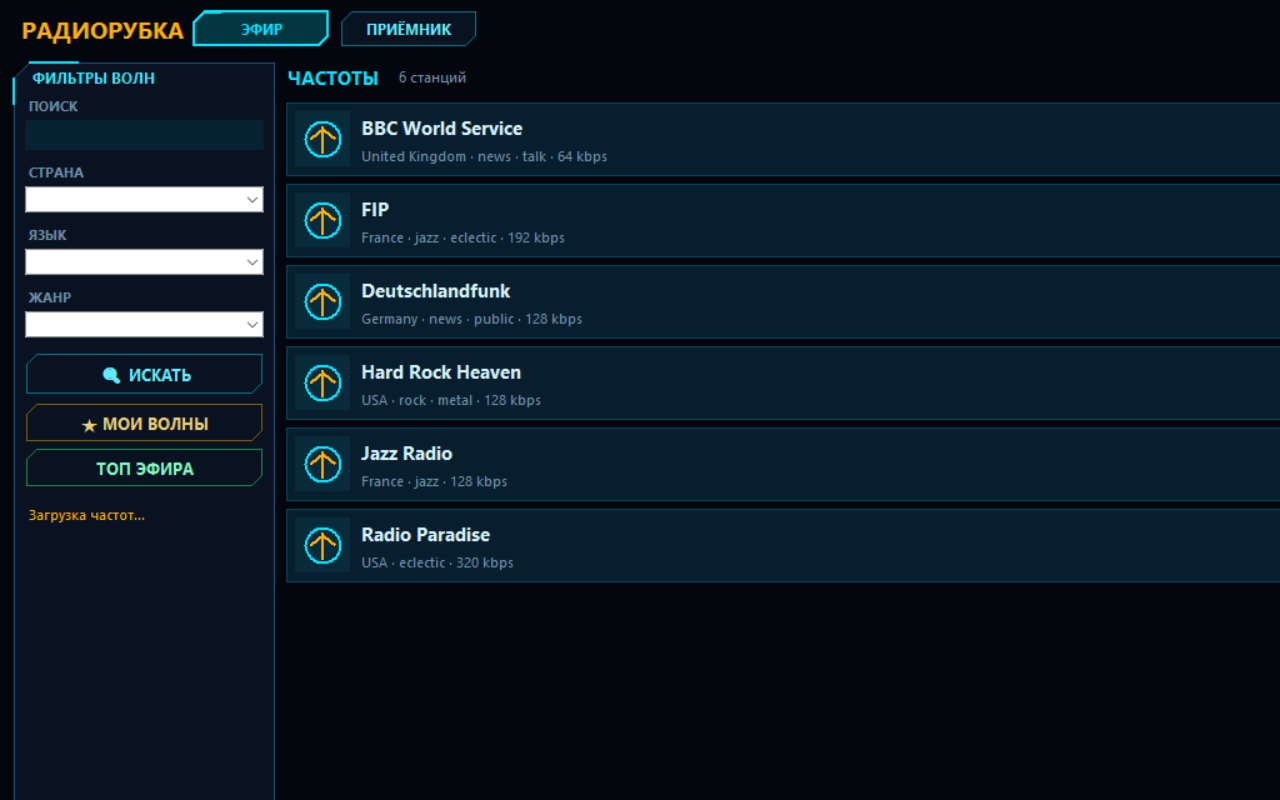
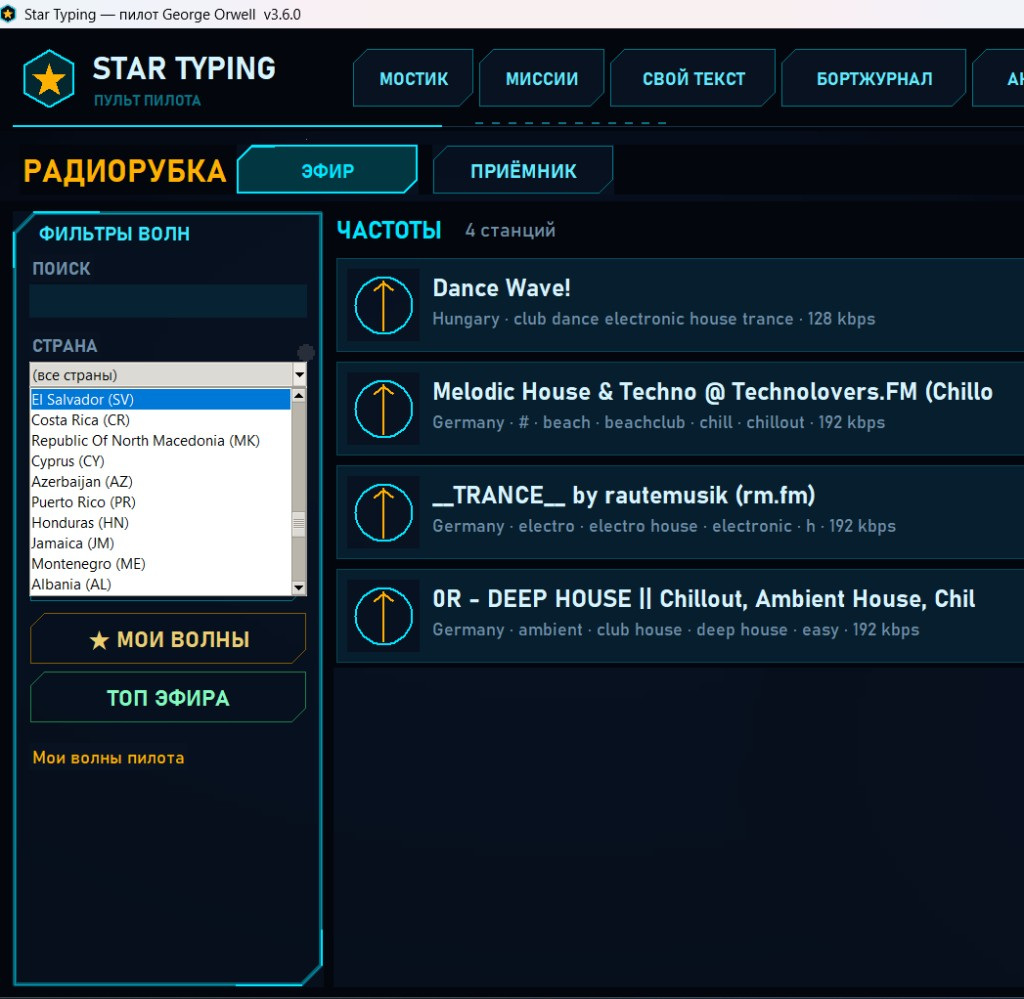
Документация и скрины читалки/радиорубки; поиск mpv вне PATH на Windows.
README и отчёт со скринами разворота и эфира; winget shinchiro.mpv и resolve_mpv для установки вне PATH.

diff --git a/stamina/radio/player.py b/stamina/radio/player.py
@@ -16,11 +16,64 @@ from pathlib import Path
 from typing import Callable
 
 
+def _known_mpv_paths() -> list[Path]:
+    """Типичные места установки mpv на Windows (winget shinchiro.mpv и т.п.)."""
+    out: list[Path] = []
+    env = os.environ.get("MPV_PATH") or os.environ.get("STAMINA_MPV")
+    if env:
+        out.append(Path(env))
+    if sys.platform == "win32":
+        pf = os.environ.get("ProgramFiles", r"C:\Program Files")
+        pf86 = os.environ.get("ProgramFiles(x86)", r"C:\Program Files (x86)")
+        local = os.environ.get("LOCALAPPDATA", "")
+        home = Path.home()
+        candidates = [
+            Path(pf) / "MPV Player" / "mpv.exe",
+            Path(pf) / "mpv" / "mpv.exe",
+            Path(pf86) / "MPV Player" / "mpv.exe",
+            Path(pf86) / "mpv" / "mpv.exe",
+            Path(local) / "Programs" / "mpv" / "mpv.exe" if local else None,
+            home / "scoop" / "apps" / "mpv" / "current" / "mpv.exe",
+            Path(r"C:\mpv\mpv.exe"),
+        ]
+        out.extend(p for p in candidates if p is not None)
+    return out
+
+
+def resolve_mpv() -> str | None:
+    """Путь к mpv: PATH или известные каталоги установки."""
+    which = shutil.which("mpv")
+    if which:
+        return which
+    for p in _known_mpv_paths():
+        try:
+            if p.is_file():
+                return str(p)
+        except OSError:
+            continue
+    return None
+
+
+def resolve_ffplay() -> str | None:
+    return shutil.which("ffplay")
+
+
 def backend_name() -> str | None:
-    if shutil.which("mpv"):
+    if resolve_mpv():
         return "mpv"
-    if shutil.which("ffplay"):
+    if resolve_ffplay():
         return "ffplay"
+    return None
+
+
+def backend_cmd() -> list[str] | None:
+    """Команда запуска: ['mpv', ...] или полный путь."""
+    mpv = resolve_mpv()
+    if mpv:
+        return [mpv]
+    ff = resolve_ffplay()
+    if ff:
+        return [ff]
     return None
 
 
@@ -163,10 +216,13 @@ class StreamPlayer:
                     pass
         except OSError:
             pass
+        mpv = resolve_mpv()
+        if not mpv:
+            return False
         ipc = str(sock) if sys.platform != "win32" else r"\\.\pipe\stamina-radio-" + str(os.getpid())
         flags = getattr(subprocess, "CREATE_NO_WINDOW", 0) if sys.platform == "win32" else 0
         cmd = [
-            "mpv", "--no-video", "--quiet", "--no-terminal",
+            mpv, "--no-video", "--quiet", "--no-terminal",
             f"--volume={self._volume}",
             f"--input-ipc-server={ipc}",
             "--idle=yes",
@@ -250,10 +306,13 @@ class StreamPlayer:
 
     # ------------------------------------------------------------------ ffplay
     def _play_ffplay(self, url: str) -> bool:
+        ff = resolve_ffplay()
+        if not ff:
+            return False
         flags = getattr(subprocess, "CREATE_NO_WINDOW", 0) if sys.platform == "win32" else 0
         # volume у ffplay: -volume 0..100
         cmd = [
-            "ffplay", "-nodisp", "-autoexit", "-loglevel", "quiet",
+            ff, "-nodisp", "-autoexit", "-loglevel", "quiet",
             "-volume", str(self._volume), url,
         ]
         try:

diff --git a/stamina/deps.py b/stamina/deps.py
@@ -111,7 +111,7 @@ def check(system: str | None = None) -> list[dict]:
         {"key": "mpv", "name": "mpv / ffplay", "ok": bool(shutil.which("mpv") or shutil.which("ffplay")),
          "need": t("необязательно"), "what": t("РАДИОРУБКА — онлайн-радио"),
          "pip": [], "sys": [],
-         "how": ("winget install mpv" if system == "windows"
+         "how": ("winget install shinchiro.mpv" if system == "windows"
                  else (f"{INSTALL_CMD.get(pm or '', 'sudo apt install -y')} mpv" if pm
                        else "sudo apt install mpv"))},
     ]

diff --git a/stamina/radio/screen.py b/stamina/radio/screen.py
@@ -311,7 +311,7 @@ class RadioScreen(tk.Frame):
         if not backend_ok():
             self.app.set_status(_t("Установите mpv (или ffplay) для приёма эфира"), AMBER)
             self.lbl_status.configure(
-                text=_t("Нужен mpv: winget install mpv / sudo apt install mpv"), fg=AMBER)
+                text=_t("Нужен mpv: winget install shinchiro.mpv / sudo apt install mpv"), fg=AMBER)
             return
         ok = self.eng.play_station(st)
         if ok:

diff --git a/README.md b/README.md
@@ -80,7 +80,7 @@ Star Typing — настольная программа на Python (tkinter) в
    обзора: Шульте, Горбов, пирамида, вспышка. Библиотека общая с печатью + свободные книги Gutenberg.
 4. **Отдых** — комната отдыха экипажа: тетрис, змейка и арканоид в стиле пульта.
 5. **Радиорубка** — онлайн-радио (radio-browser.info): поиск станций, избранное, мини-приёмник
-   в шапке; для звука нужен `mpv` (необязательно).
+   в шапке; для звука нужен `mpv` (`winget install shinchiro.mpv` на Windows — необязательно).
 
 С версии 3.4 за одним компьютером может заниматься **целый экипаж**: у каждого пилота свой
 профиль (позывной, эмблема, необязательный код доступа) и весь свой прогресс, а **ДОСКА ПОЧЁТА**
@@ -117,6 +117,9 @@ Star Typing — настольная программа на Python (tkinter) в
 | **Английский (Ctrl+5)** | **Скорочтение (Ctrl+6)** |
 | ![Английский](screenshots/overview/06_english.png) | ![Скорочтение](screenshots/speedread/sr_01_overview.png) |
 | 20 000 слов по частотности, сканер слова с переводом и произношением, миссии с микрофоном, карточки SM-2. Подробно — [ниже](#вкладка-английский-версия-32). | Гипердрайв, проверка понимания, тренажёры обзора, библиотека и журнал. Подробно — [ниже](#вкладка-скорочтение-версия-33). |
+| **Читалка «Книга» (разворот)** | **Радиорубка** |
+| ![Разворот ночь](screenshots/reader/01_spread_night.png) | ![Приёмник](screenshots/radio/02_receiver.png) |
+| Сплошной текст без лесенок Gutenberg, темы Бумага / Ночь / Сепия, оглавление. Подробно — [ниже](#книга-обычная-читалка-с-полки). | Эфир (radio-browser), приёмник с ICY-треком, мини-бар; нужен mpv. Подробно — [ниже](#радиорубка-онлайн-радио). |
 | **Настройки (Ctrl+7)** | **Справка (F1)** |
 | ![Настройки](screenshots/overview/08_settings.png) | ![Справка](screenshots/speedread/sr_16_help_f1.png) |
 | Звук и громкость, переводчик, звёзды, клавиатура, зоны пальцев, размер шрифта строки и всего интерфейса. | Инструкция пилота; F1 на вкладке сразу открывает её главу. |
@@ -326,10 +329,23 @@ Star Typing — настольная программа на Python (tkinter) в
 в начало главы, финиш с проверкой. Если в печати вы ушли дальше, клавиша **S** переносит туда.
 
 ### Книга: обычная читалка с полки
-Гипердрайв не заменяется: подвкладка **КНИГА** — отдельный режим. Текст целиком на экране,
-страницы (← → / PgUp PgDn), шрифт A±, темы (тёмная / бумага / сепия), оглавление, общая позиция
-со словом гипердрайва. Вход: **БИБЛИОТЕКА → 📖 КНИГА** или кнопка на **ОБЗОРЕ**. Подробно —
-[ИНСТРУКЦИЯ.md](ИНСТРУКЦИЯ.md) §13.
+Гипердрайв не заменяется: подвкладка **КНИГА** — отдельный режим. Текст с полки (в т.ч. Gutenberg)
+сначала **нормализуется** (жёсткие переносы склеиваются, абзац — только пустая строка), затем
+верстается с выключкой. Режимы: **1 СТР** · **РАЗВОРОТ** (две колонки L→R) · **ПРОКРУТКА**.
+Темы: **БУМАГА** · **НОЧЬ** · **СЕПИЯ**. Внизу — % прогресса, страницы (`53–54 / 750`) и оценка
+времени. Вход: **БИБЛИОТЕКА → 📖 КНИГА** или кнопка на **ОБЗОРЕ**. Задача и эталоны —
+[docs/reader/](docs/reader/), отчёт — [docs/WORKLOG_READER_RADIO_2026-10-11.md](docs/WORKLOG_READER_RADIO_2026-10-11.md).
+
+| Разворот · Ночь | Разворот · Бумага |
+| --- | --- |
+| ![Ночь](screenshots/reader/01_spread_night.png) | ![Бумага](screenshots/reader/02_spread_paper.jpg) |
+| Frankenstein: сплошной текст на двух страницах, HUD на русском. | Та же вёрстка на кремовой «бумаге». |
+| **Разворот · Сепия** | **Оглавление** |
+| ![Сепия](screenshots/reader/03_spread_sepia.jpg) | ![Оглавление](screenshots/reader/04_toc_sepia.jpg) |
+| Тёплая сепия; счётчик страниц разворота. | Список глав и «ПЕРЕЙТИ» поверх разворота. |
+| **Свободные книги (Gutenberg)** | **Журнал / настройки читалки** |
+| ![Gutenberg](screenshots/reader/05_gutenberg.png) | ![Настройки Книга](screenshots/reader/07_settings_book.png) |
+| Поиск по названию и автору, фильтр языка, обложки, скачать в библиотеку. | В НАСТРОЙКАХ скорочтения: вид книги и тема по умолчанию. |
 
 ### Проверка понимания
 | Вопрос | Отчёт о полёте |
@@ -368,6 +384,34 @@ Star Typing — настольная программа на Python (tkinter) в
 красная буква, прицел, частота проверки понимания и подсказка синхронизации с печатью.
 
 Устройство вкладки и план: [docs/speedread/](docs/speedread/) (SPEC, TEXT_LIBRARY, макеты).
+
+## Радиорубка (онлайн-радио)
+
+Отсек **РАДИОРУБКА** в шапке: станции из [radio-browser.info](https://www.radio-browser.info)
+(поиск, страна, язык, жанр, топ по голосам), избранное **★ МОИ ВОЛНЫ** на пилота,
+экран **ПРИЁМНИК** (ICY-название трека, «В ЭФИРЕ», громкость, история сеанса) и **мини-приёмник**
+в шапке, пока эфир играет в фоне. При озвучке (ГОЛОС) и проверке микрофона радио приглушается;
+есть опция «приглушать радио во время набора».
+
+Звук идёт через внешний **mpv** (или ffplay), без pip-пакетов. На Windows:
+
+```bat
+winget install -e --id shinchiro.mpv
+```
+
+Программа ищет `mpv` в PATH и в типичных каталогах (`C:\Program Files\MPV Player\` и др.);
+можно задать путь вручную: переменная `MPV_PATH` или `STAMINA_MPV`. В шапке приёмника должно
+быть **приёмник: MPV**. Задача и эталоны — [docs/radio/](docs/radio/).
+
+| Эфир: фильтры и частоты | Приёмник в эфире |
+| --- | --- |
+| ![Эфир](screenshots/radio/01_air.png) | ![Приёмник](screenshots/radio/02_receiver.png) |
+| Поиск, страна / язык / жанр, список станций с битрейтом и ★. | Станция, трек, эквалайзер, пауза/стоп, громкость. |
+| **Приёмник (другая станция)** | **Поиск по языку** |
+| ![Dance Wave](screenshots/radio/03_receiver_dancewave.png) | ![Украинский](screenshots/radio/04_air_ukrainian.png) |
+| История треков за сеанс, опция приглушения при наборе. | Язык ukrainian — десятки станций (Hit FM, Люкс FM…). |
+
+Подробно для пилота — [ИНСТРУКЦИЯ.md](ИНСТРУКЦИЯ.md) (глава о радиорубке, F1).
 
 ## Экипаж и ДОСКА ПОЧЁТА (версия 3.4)
 
@@ -581,7 +625,7 @@ create_shortcut.ps1     создание ярлыка на рабочем сто
 CHANGELOG.md            история изменений
 CURSOR_TASK.md          описание задачи и статус для Cursor
 VIBE_CODING.md          набор промптов для вайбкодинга проекта
-screenshots/            скриншоты для README
+screenshots/            скриншоты для README (в т.ч. reader/, radio/)
 stamina/                пакет программы (имя прежнее, чтобы не ломать запуск)
   app.py                запуск, чёткий текст на экранах 125–150 %, своя иконка на панели задач
   assets/               иконка Star Typing (star_typing.ico, star_typing_64.png)

diff --git a/docs/WORKLOG_READER_RADIO_2026-10-11.md b/docs/WORKLOG_READER_RADIO_2026-10-11.md
@@ -1,0 +1,91 @@
+# Отчёт о работе: читалка «Книга» + радиорубка (11.10.2026)
+
+Проект: **Star Typing** (`Teslyar75/My_Stamina`). Ветка: `feature/radio-cabin` (читалка — также в `feature/reader-readest-layout`).
+
+## Цель
+
+1. Переделать читалку **КНИГА** по задаче [`docs/reader/CURSOR_TASK_READER.md`](reader/CURSOR_TASK_READER.md): сплошной текст без «лесенок» Gutenberg, разворот / прокрутка, понятный HUD, i18n.
+2. Добавить отсек **РАДИОРУБКА** по [`docs/radio/CURSOR_TASK_RADIO.md`](radio/CURSOR_TASK_RADIO.md): поиск станций, приёмник, мини-бар, ducking TTS/микрофон.
+3. Починить каталог свободных книг Gutenberg после переименования панели.
+4. Сделать так, чтобы эфир играл на Windows после `winget install shinchiro.mpv` даже если `mpv` не в PATH.
+
+---
+
+## Что сделано
+
+### Читалка «Книга»
+
+| Было | Стало |
+| --- | --- |
+| Жёсткие переносы Gutenberg → «лесенка» абзацев | Нормализация текста: склейка `\n` и `слово-\n`, абзац только по `\n\n` |
+| Мало текста на странице, пустота снизу | Пагинация по реальной высоте (`font.metrics` / накопление строк) |
+| Кнопки «1 / РАЗВ. / D P S» | Подписи **1 СТР / РАЗВОРОТ / ПРОКРУТКА**, темы **БУМАГА / НОЧЬ / СЕПИЯ** |
+| Зависание при переносе длинных строк | Кэш `font.measure`, аккуратная вёрстка |
+| Пропала вкладка СКОРОЧТЕНИЕ | Исправлена ошибка цвета `blend("#000")` → `#000000` |
+
+Режимы разворота: текст течёт **слева направо** на две колонки; счётчик страниц вида `53–54 / 750`; прогресс и оценка времени внизу.
+
+### Каталог Gutenberg
+
+После рефакторинга импорт `BookSearchDialog` ломал загрузку. Восстановлены обёртки в полке: диалог снова открывается, идёт «Загрузка каталога…», список с обложками и кнопкой «СКАЧАТЬ В БИБЛИОТЕКУ».
+
+### Радиорубка
+
+- Вкладка **РАДИОРУБКА**: **ЭФИР** (фильтры страна/язык/жанр, поиск, топ, ★ мои волны) и **ПРИЁМНИК** (станция, ICY-трек, «В ЭФИРЕ», эквалайзер, громкость, история сеанса).
+- Источник: [radio-browser.info](https://www.radio-browser.info).
+- Проигрывание: внешний **mpv** (предпочтительно) или **ffplay**, без pip-пакетов.
+- Мини-приёмник в шапке при фоновом эфире; приглушение при TTS и микрофоне; опция «приглушать во время набора».
+- i18n: ru / uk / en / de; запись в инструкцию пилота (F1) и `install.bat` / `deps.py`.
+
+### mpv на Windows
+
+`winget install -e --id shinchiro.mpv` ставит плеер в `C:\Program Files\MPV Player\mpv.exe`, но часто **не добавляет** его в PATH. Добавлен поиск известных путей (`resolve_mpv` / `MPV_PATH` / `STAMINA_MPV`). После перезапуска в шапке: **приёмник: MPV**.
+
+---
+
+## Описание скриншотов (сессия 11.10.2026)
+
+### Читалка и скорочтение
+
+| Файл | Что на снимке |
+| --- | --- |
+| [`screenshots/reader/01_spread_night.png`](../screenshots/reader/01_spread_night.png) | **Frankenstein**, режим **РАЗВОРОТ**, тема **НОЧЬ**: две полные колонки сплошного текста, HUD на русском, прогресс `53–54 / 750`. |
+| [`screenshots/reader/02_spread_paper.jpg`](../screenshots/reader/02_spread_paper.jpg) | Тот же разворот, тема **БУМАГА** (кремовая «бумага»), страницы `41–42 / 586`. |
+| [`screenshots/reader/03_spread_sepia.jpg`](../screenshots/reader/03_spread_sepia.jpg) | Разворот, тема **СЕПИЯ**, страницы `37–38`. |
+| [`screenshots/reader/04_toc_sepia.jpg`](../screenshots/reader/04_toc_sepia.jpg) | Оверлей **ОГЛАВЛЕНИЕ** поверх разворота (главы 1–17, кнопка «ПЕРЕЙТИ»). |
+| [`screenshots/reader/05_gutenberg.png`](../screenshots/reader/05_gutenberg.png) | Диалог **Свободные книги · Project Gutenberg**: фильтр EN, каталог с обложками, «Загрузка каталога…». |
+| [`screenshots/reader/06_journal.png`](../screenshots/reader/06_journal.png) | **ЖУРНАЛ** скорочтения: график скорости vs цель 600, сессии «ЧТЕНИЕ» / «ТРЕНАЖЁР» (1984, Шульте). |
+| [`screenshots/reader/07_settings_book.png`](../screenshots/reader/07_settings_book.png) | **НАСТРОЙКИ** скорочтения: блок «ЧИТАЛКА КНИГА» с видом **РАЗВОРОТ** и темой **СЕПИЯ**. |
+
+До/после для задачи читалки: [`docs/reader/our_current.png`](reader/our_current.png) → [`docs/reader/our_after_spread.png`](reader/our_after_spread.png).
+
+### Радиорубка
+
+| Файл | Что на снимке |
+| --- | --- |
+| [`screenshots/radio/01_air.png`](../screenshots/radio/01_air.png) | **ЭФИР**: фильтры волн, открыт список стран, частоты (Dance Wave!, Techno, Trance…). |
+| [`screenshots/radio/02_receiver.png`](../screenshots/radio/02_receiver.png) | **ПРИЁМНИК**: Kiss FM Ukrainian в эфире, ICY-трек, эквалайзер, громкость 70; в шапке **приёмник: MPV**. |
+| [`screenshots/radio/03_receiver_dancewave.png`](../screenshots/radio/03_receiver_dancewave.png) | ПРИЁМНИК на Dance Wave!, история треков сеанса, чекбокс приглушения при наборе. |
+| [`screenshots/radio/04_air_ukrainian.png`](../screenshots/radio/04_air_ukrainian.png) | ЭФИР с языком **ukrainian**, ~80 станций (Hit FM, Люкс FM, Kiss FM…). |
+| [`docs/radio/our_air_before_mpv.png`](radio/our_air_before_mpv.png) | Состояние до фикса PATH: предупреждение «нет mpv/ffplay». |
+
+---
+
+## Обновления документации в репозитории
+
+- **README.md** — скриншоты читалки (разворот/темы/TOC/Gutenberg) и радиорубки (эфир/приёмник); уточнён `winget install shinchiro.mpv`.
+- **ИНСТРУКЦИЯ.md** — глава о радиорубке и установка mpv.
+- **docs/CAPABILITIES.md** — пункты читалки и радиорубки.
+- **docs/reader/**, **docs/radio/** — эталонные «наши» снимки рядом с задачами Cursor.
+- **install.bat** / **stamina/deps.py** — предложение установить `shinchiro.mpv`.
+
+---
+
+## Критерий «готово»
+
+- [x] Frankenstein в развороте — сплошной текст без лесенок.
+- [x] Вкладка СКОРОЧТЕНИЕ на месте; журнал и настройки читалки видны.
+- [x] Gutenberg загружает каталог.
+- [x] РАДИОРУБКА в меню; эфир и приёмник; звук через MPV.
+- [x] Скриншоты в `docs/radio/`, `docs/reader/`, `screenshots/reader/`, `screenshots/radio/`.
+- [x] PR в `master` репозитория Teslyar75/My_Stamina (ветка `feature/radio-cabin`).

diff --git a/ИНСТРУКЦИЯ.md b/ИНСТРУКЦИЯ.md
@@ -601,7 +601,7 @@
 
 Вкладка **«РАДИОРУБКА»** в шапке (перед **Настройками**). Станции из открытой базы
 [radio-browser.info](https://www.radio-browser.info). Для звука нужен **mpv** (или ffplay)
-в системе: `winget install mpv` / `sudo apt install mpv`. Без них вкладка открывается,
+в системе: `winget install shinchiro.mpv` / `sudo apt install mpv`. Без них вкладка открывается,
 но эфир не запустится — в шапке будет подсказка.
 
 ### ЭФИР

diff --git a/docs/CAPABILITIES.md b/docs/CAPABILITIES.md
@@ -108,6 +108,7 @@
 - **ПРИЁМНИК**: пуск/стоп, громкость, ICY-трек, история сеанса.
 - Мини-приёмник в шапке при активном эфире; приглушение при озвучке и микрофоне.
 - Для звука нужен **mpv** (или ffplay) в системе — без pip-пакетов.
+  Windows: `winget install -e --id shinchiro.mpv` (поиск и в PATH, и в `MPV Player\`).
 
 ---
 
